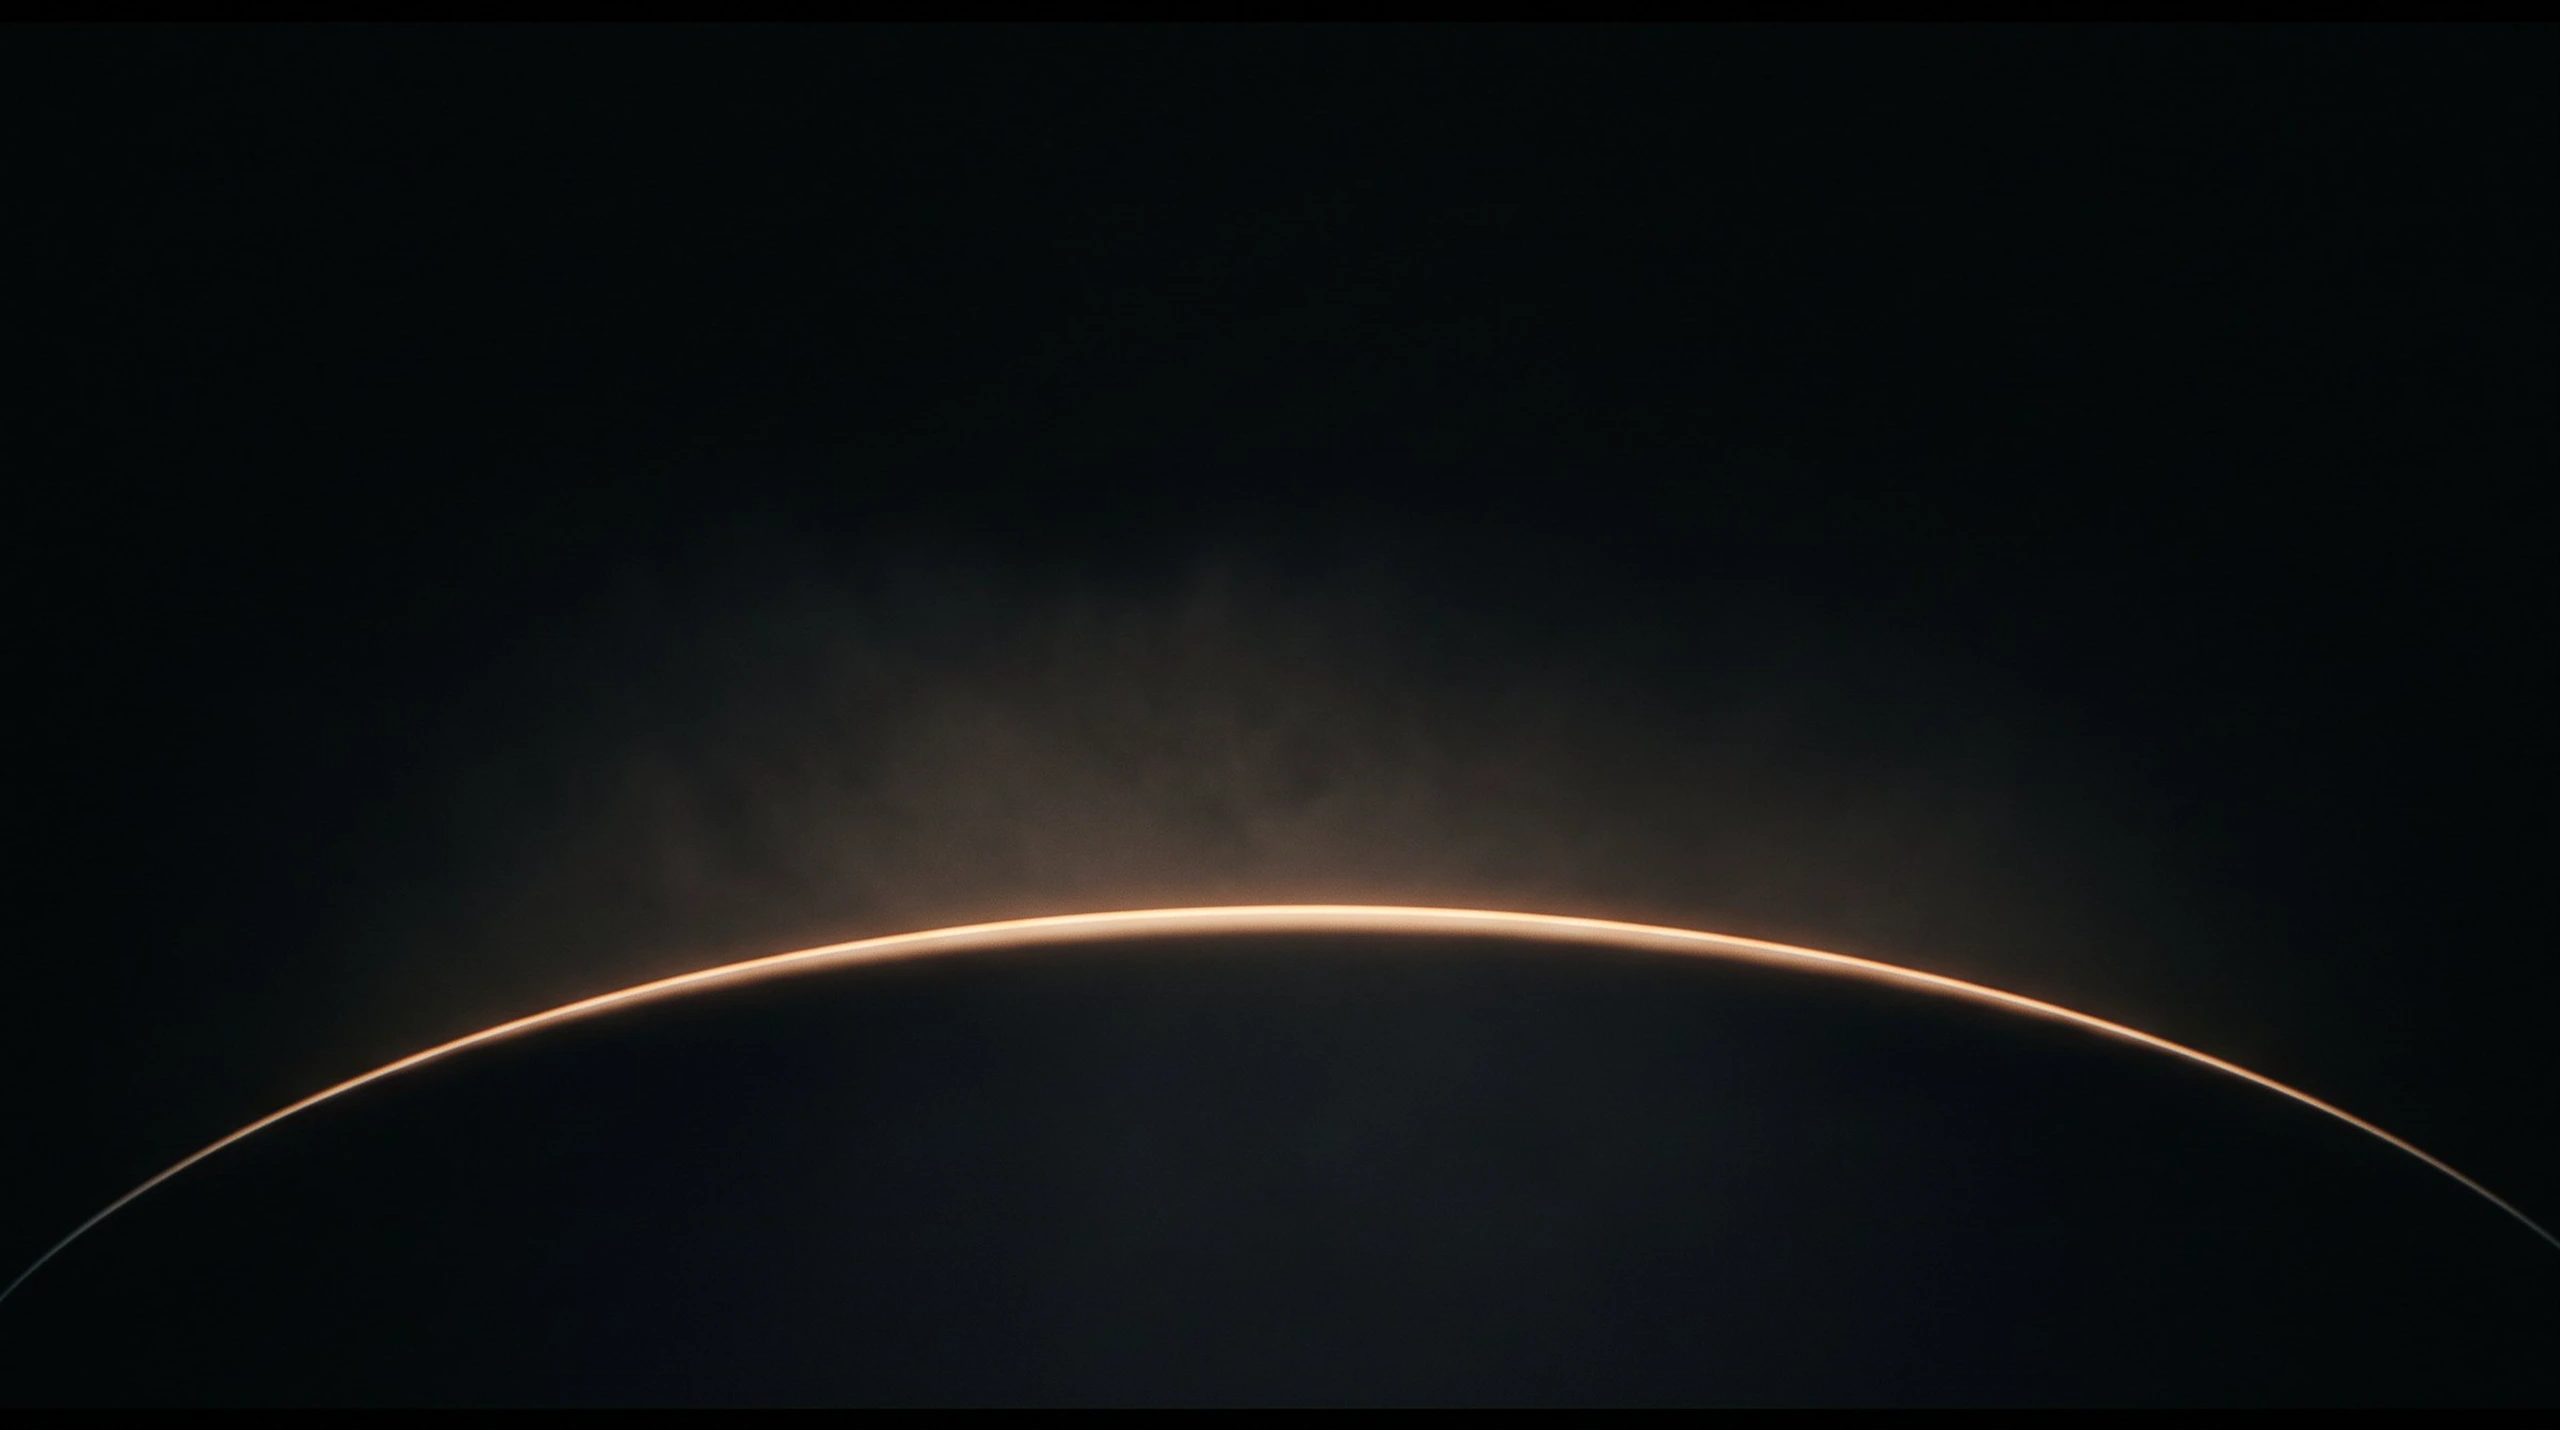
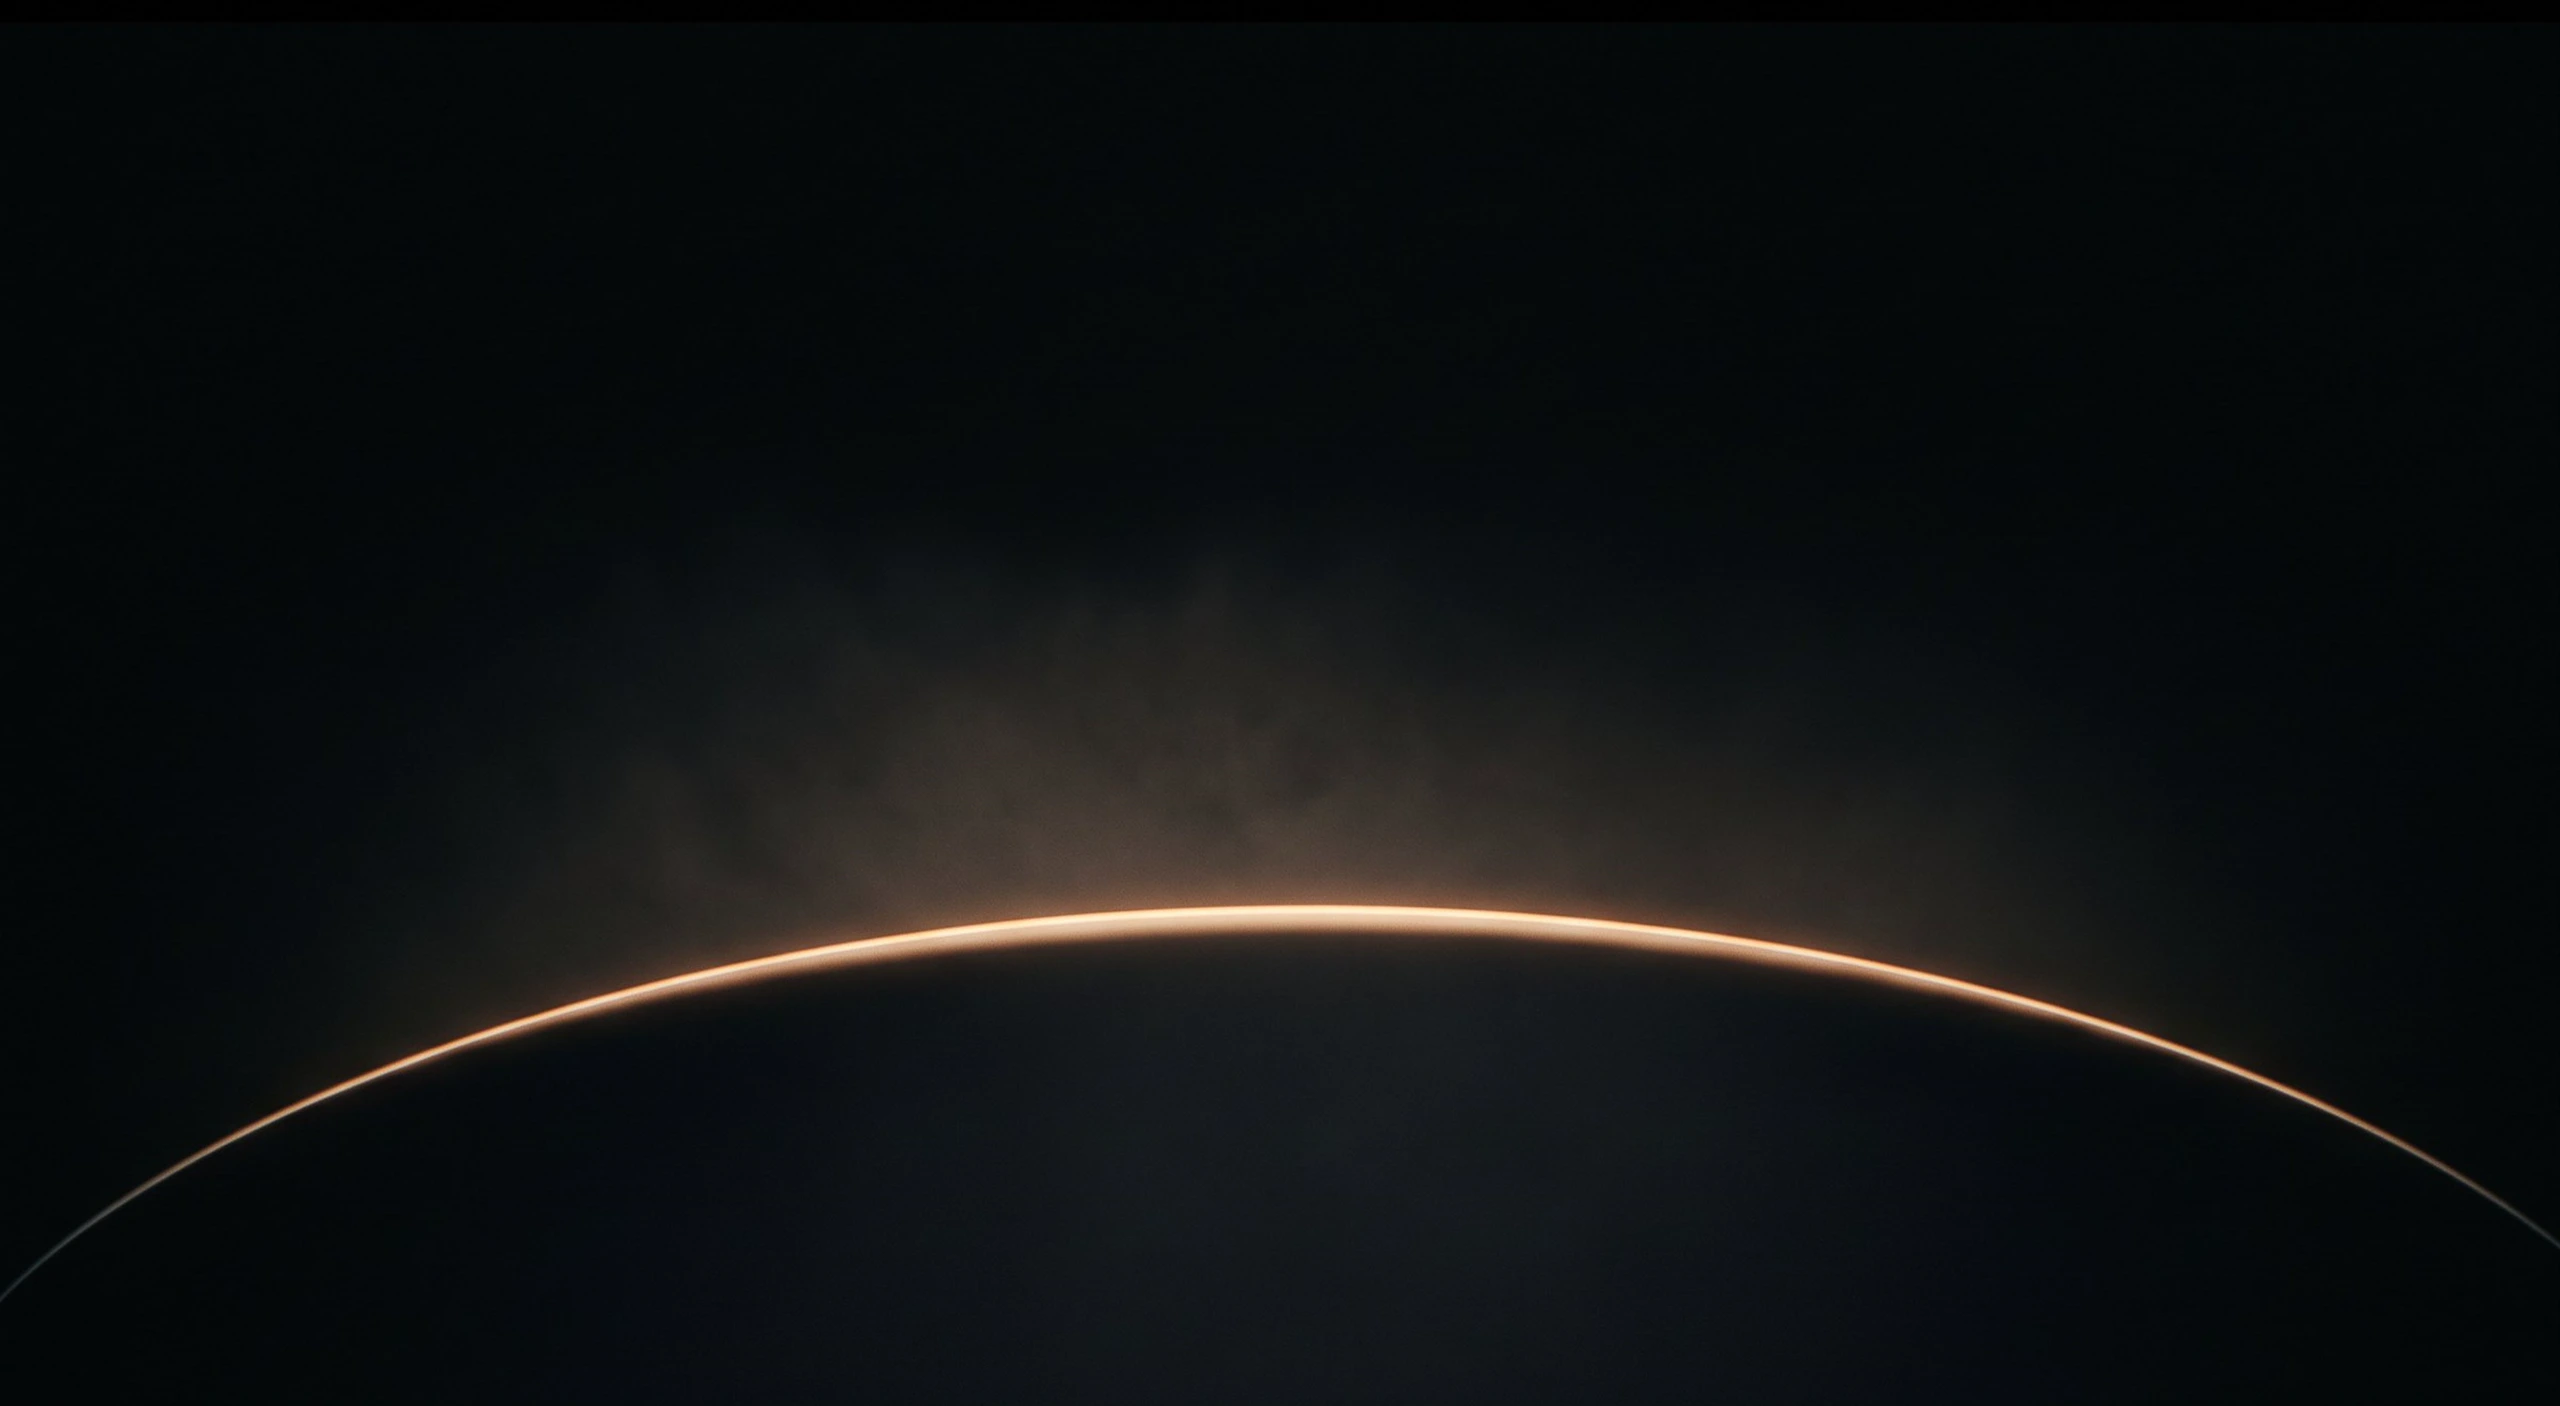
Contact: the black band at the foot of the page removed (cropped off the plate, and the plate no longer lifts off the bottom while you type)
Claude-Session: https://claude.ai/code/session_011qUTzFoksByiZy7rFAp33s

diff --git a/src/site/site.css b/src/site/site.css
@@ -395,7 +395,8 @@
 .st-contact__plate { position: absolute; inset: 0; z-index: 0; -webkit-mask-image: linear-gradient(180deg, transparent 0%, #000 16%); mask-image: linear-gradient(180deg, transparent 0%, #000 16%); }
 .st-contact__plate img { position: absolute; inset: 0; width: 100%; height: 100%; object-fit: cover; object-position: 50% 100%; transition: filter 1400ms var(--ease-enter), transform 1800ms var(--ease-enter); }
 /* the light answers the visitor: while they write, the horizon brightens a touch and rises a hair */
-.st-contact:focus-within .st-contact__plate img { filter: brightness(1.22) saturate(1.06); transform: translateY(-6px); }
+/* (it grows from its foot, so its lower edge never lifts off the bottom of the page) */
+.st-contact:focus-within .st-contact__plate img { filter: brightness(1.22) saturate(1.06); transform: scale(1.012); transform-origin: 50% 100%; }
 @media (prefers-reduced-motion: reduce) { .st-contact__plate img { transition: none; } .st-contact:focus-within .st-contact__plate img { transform: none; } }
 /* the form sits low, over the horizon's arc; the head stays up top, the line drops to meet the form's foot */
 .st-contact__in { position: relative; z-index: 2; flex: 1; display: grid; grid-template-columns: minmax(0, 1fr) 760px; column-gap: 64px; align-items: stretch; padding-top: 24px; }

diff --git a/src/site/Site.tsx b/src/site/Site.tsx
@@ -506,7 +506,7 @@ export function Site({
 
         {/* 06 contact: the head on the left, the form as one frosted plate over the Horizon light; a quiet footer */}
         <section data-sec="contact" className="st-sec st-contact">
-          <div className="st-contact__plate grain" aria-hidden><img src={desk ? OPEN.horizon : "img/plates/horizon-vertical.jpg"} alt="" width={desk ? 2560 : 752} height={desk ? 1429 : 1344} loading="lazy" /></div>
+          <div className="st-contact__plate grain" aria-hidden><img src={desk ? OPEN.horizon : "img/plates/horizon-vertical.jpg"} alt="" width={desk ? 2560 : 752} height={desk ? 1406 : 1344} loading="lazy" /></div>
           <div className="st-contact__in">
             <div className="st-contact__l">
               <Head label="Contact" title="Let’s talk" />
